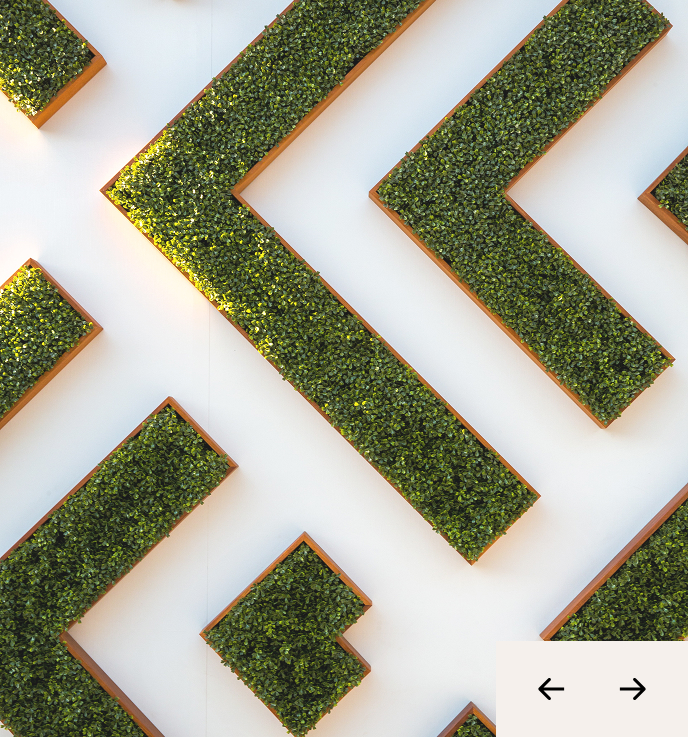
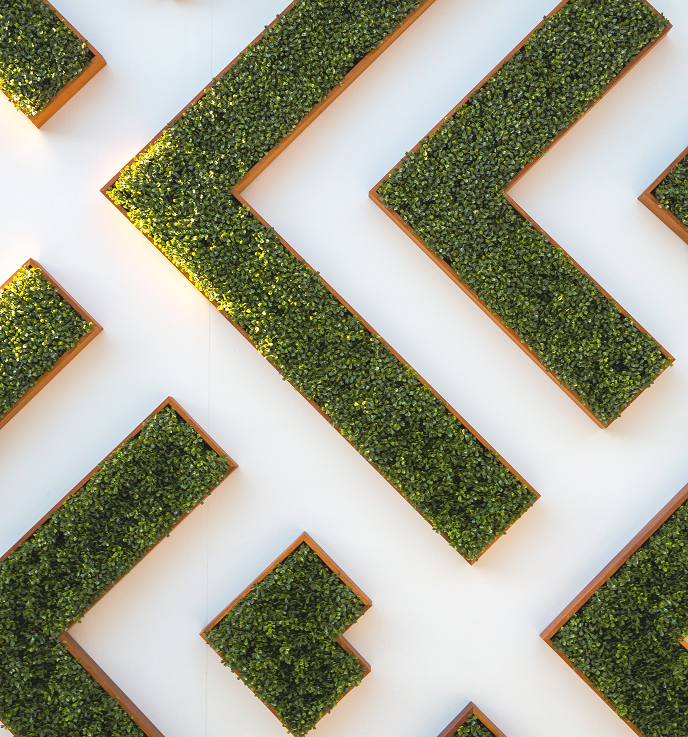
feat: add hero section

Changed region(s): [[0.7631, 0.8426, 1.0, 1.0], [0.702, 0.9674, 0.7631, 1.0]]

diff --git a/index.html b/index.html
@@ -48,6 +48,71 @@
         </div>
       </div>
     </header>
+    <section class="hero">
+      <div class="container">
+        <div class="row hero__wrapper">
+          <div class="col-12 col-lg-6">
+            <div class="hero__content">
+              <h1 class="hero__title">Nowoczesna aranżacja Twojego ogrodu</h1>
+              <p class="hero__text">
+                Marka GiardDesign to wieloletnie doświadczenie i wysoka estetyka
+                realizacji. Oferujemy kompleksowy zakres usług z indywidualnym
+                podejściem do każdego projektu.
+              </p>
+              <div class="hero__buttons">
+                <a href="#contact" class="hero__button hero__button--primary">
+                  Skontaktuj się z nami
+                </a>
+                <a
+                  href="#projects"
+                  class="hero__button hero__button--secondary"
+                >
+                  <span>Zobacz nasze realizacje</span>
+                  <img
+                    src="/images/icons/arrow-down-green.svg"
+                    alt=""
+                    aria-hidden="true"
+                  />
+                </a>
+              </div>
+            </div>
+          </div>
+          <div class="col-12 col-lg-6">
+            <div class="hero__image">
+              <img
+                class="hero__photo"
+                src="/images/hero/hero.webp"
+                alt="Nowoczesna aranżacja ogrodu"
+              />
+              <div class="hero__controls">
+                <button
+                  class="hero__control hero__control--prev"
+                  type="button"
+                  aria-label="Poprzedni slajd"
+                >
+                  <img
+                    src="/images/icons/arrow-left-black.svg"
+                    alt=""
+                    aria-hidden="true"
+                  />
+                </button>
+                <button
+                  class="hero__control hero__control--next"
+                  type="button"
+                  aria-label="Następny slajd"
+                >
+                  <img
+                    src="/images/icons/arrow-right-black.svg"
+                    alt=""
+                    aria-hidden="true"
+                  />
+                </button>
+              </div>
+            </div>
+          </div>
+        </div>
+      </div>
+    </section>
 
     <script type="module" src="/src/main.js"></script>
   </body>
